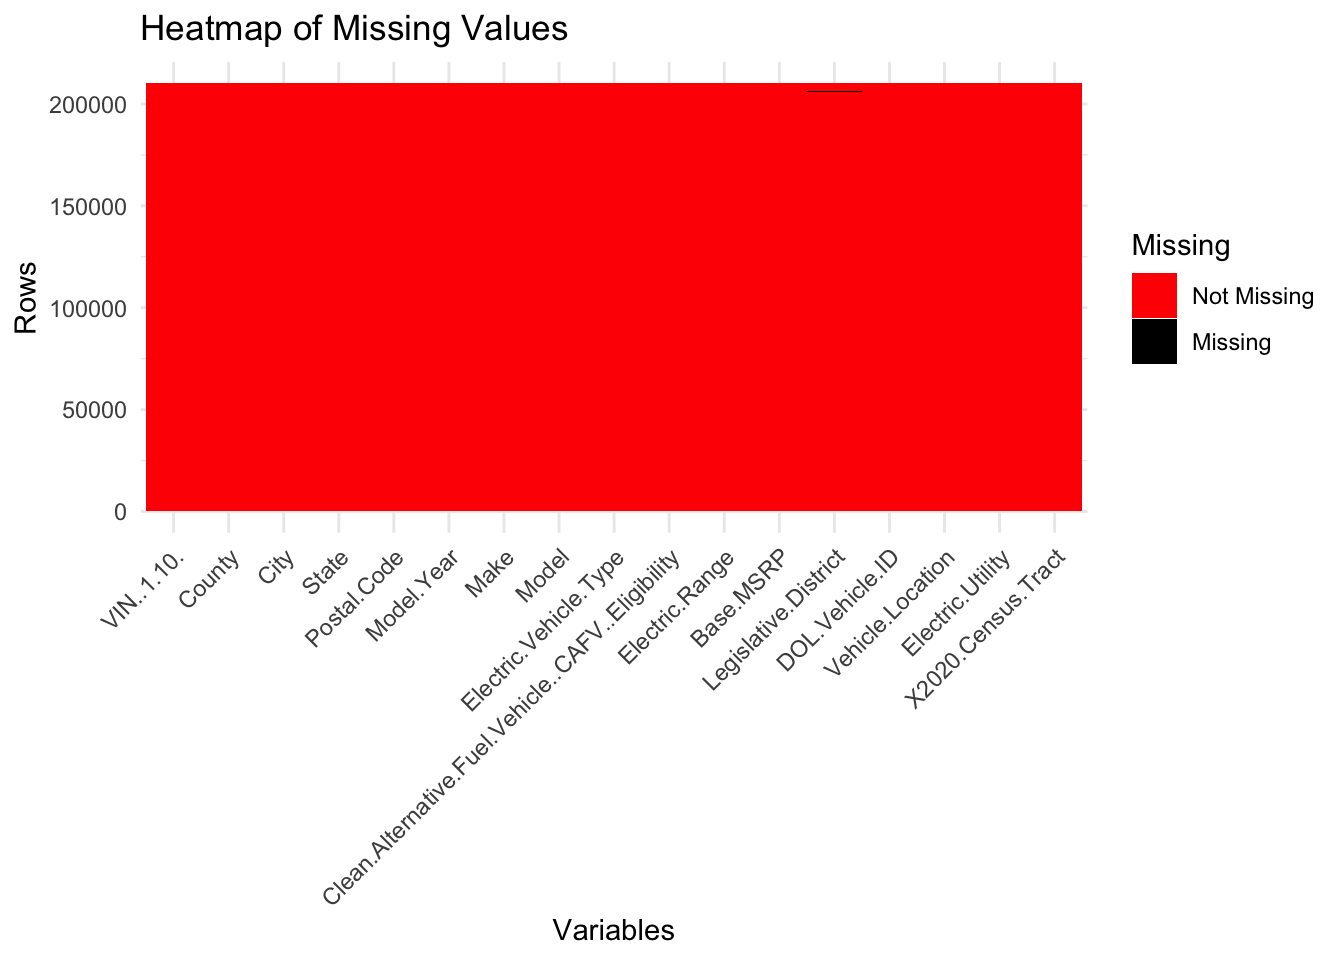
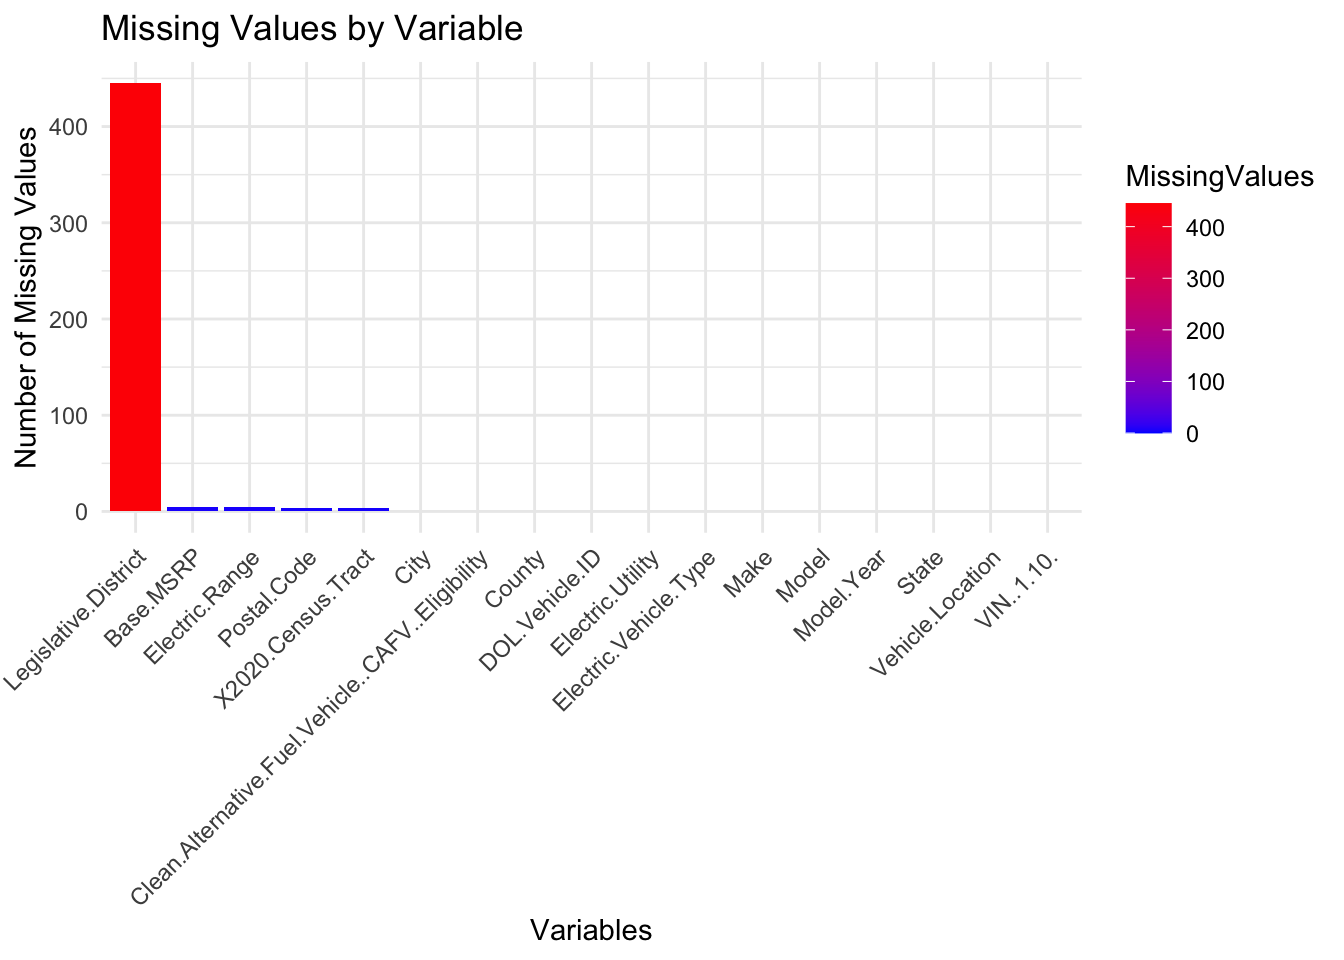
updated graphs

diff --git a/docs/data.html b/docs/data.html
@@ -227,9 +227,14 @@ Geography - County City of registration</p>
 <details class="code-fold">
 <summary>Code</summary>
 <div class="sourceCode cell-code" id="cb1"><pre class="sourceCode r code-with-copy"><code class="sourceCode r"><span id="cb1-1"><a href="#cb1-1" aria-hidden="true" tabindex="-1"></a><span class="co">#install.packages("dplyr") </span></span>
-<span id="cb1-2"><a href="#cb1-2" aria-hidden="true" tabindex="-1"></a><span class="co">#install.packages("tidyr")</span></span>
-<span id="cb1-3"><a href="#cb1-3" aria-hidden="true" tabindex="-1"></a><span class="fu">library</span>(ggplot2)</span>
-<span id="cb1-4"><a href="#cb1-4" aria-hidden="true" tabindex="-1"></a><span class="fu">library</span>(dplyr)</span></code><button title="Copy to Clipboard" class="code-copy-button"><i class="bi"></i></button></pre></div>
+<span id="cb1-2"><a href="#cb1-2" aria-hidden="true" tabindex="-1"></a><span class="co">#install.packages("tidyr")</span></span></code><button title="Copy to Clipboard" class="code-copy-button"><i class="bi"></i></button></pre></div>
+</details>
+</div>
+<div class="cell">
+<details class="code-fold">
+<summary>Code</summary>
+<div class="sourceCode cell-code" id="cb2"><pre class="sourceCode r code-with-copy"><code class="sourceCode r"><span id="cb2-1"><a href="#cb2-1" aria-hidden="true" tabindex="-1"></a><span class="fu">library</span>(ggplot2)</span>
+<span id="cb2-2"><a href="#cb2-2" aria-hidden="true" tabindex="-1"></a><span class="fu">library</span>(dplyr)</span></code><button title="Copy to Clipboard" class="code-copy-button"><i class="bi"></i></button></pre></div>
 </details>
 <div class="cell-output cell-output-stderr">
 <pre><code>
@@ -247,29 +252,29 @@ Attaching package: 'dplyr'</code></pre>
 </div>
 <details class="code-fold">
 <summary>Code</summary>
-<div class="sourceCode cell-code" id="cb5"><pre class="sourceCode r code-with-copy"><code class="sourceCode r"><span id="cb5-1"><a href="#cb5-1" aria-hidden="true" tabindex="-1"></a><span class="fu">library</span>(tidyr)</span>
-<span id="cb5-2"><a href="#cb5-2" aria-hidden="true" tabindex="-1"></a></span>
-<span id="cb5-3"><a href="#cb5-3" aria-hidden="true" tabindex="-1"></a>ev_data <span class="ot">&lt;-</span> <span class="fu">read.csv</span>(<span class="st">"Electric_Vehicle_Population_Data.csv"</span>)</span>
-<span id="cb5-4"><a href="#cb5-4" aria-hidden="true" tabindex="-1"></a></span>
-<span id="cb5-5"><a href="#cb5-5" aria-hidden="true" tabindex="-1"></a><span class="co"># Calculate the number of missing values for each column</span></span>
-<span id="cb5-6"><a href="#cb5-6" aria-hidden="true" tabindex="-1"></a>missing_data <span class="ot">&lt;-</span> ev_data <span class="sc">%&gt;%</span></span>
-<span id="cb5-7"><a href="#cb5-7" aria-hidden="true" tabindex="-1"></a>  <span class="fu">summarise</span>(<span class="fu">across</span>(<span class="fu">everything</span>(), <span class="sc">~</span> <span class="fu">sum</span>(<span class="fu">is.na</span>(.)))) <span class="sc">%&gt;%</span></span>
-<span id="cb5-8"><a href="#cb5-8" aria-hidden="true" tabindex="-1"></a>  <span class="fu">pivot_longer</span>(<span class="at">cols =</span> <span class="fu">everything</span>(), <span class="at">names_to =</span> <span class="st">"Variable"</span>, <span class="at">values_to =</span> <span class="st">"MissingValues"</span>)</span>
-<span id="cb5-9"><a href="#cb5-9" aria-hidden="true" tabindex="-1"></a></span>
-<span id="cb5-10"><a href="#cb5-10" aria-hidden="true" tabindex="-1"></a><span class="co"># Create a bar chart with colored bars</span></span>
-<span id="cb5-11"><a href="#cb5-11" aria-hidden="true" tabindex="-1"></a><span class="fu">ggplot</span>(missing_data, <span class="fu">aes</span>(<span class="at">x =</span> <span class="fu">reorder</span>(Variable, <span class="sc">-</span>MissingValues), <span class="at">y =</span> MissingValues, <span class="at">fill =</span> MissingValues)) <span class="sc">+</span></span>
-<span id="cb5-12"><a href="#cb5-12" aria-hidden="true" tabindex="-1"></a>  <span class="fu">geom_bar</span>(<span class="at">stat =</span> <span class="st">"identity"</span>) <span class="sc">+</span></span>
-<span id="cb5-13"><a href="#cb5-13" aria-hidden="true" tabindex="-1"></a>  <span class="fu">scale_fill_gradient</span>(<span class="at">low =</span> <span class="st">"blue"</span>, <span class="at">high =</span> <span class="st">"red"</span>) <span class="sc">+</span></span>
-<span id="cb5-14"><a href="#cb5-14" aria-hidden="true" tabindex="-1"></a>  <span class="fu">labs</span>(<span class="at">title =</span> <span class="st">"Missing Values by Variable"</span>,</span>
-<span id="cb5-15"><a href="#cb5-15" aria-hidden="true" tabindex="-1"></a>       <span class="at">x =</span> <span class="st">"Variables"</span>,</span>
-<span id="cb5-16"><a href="#cb5-16" aria-hidden="true" tabindex="-1"></a>       <span class="at">y =</span> <span class="st">"Number of Missing Values"</span>) <span class="sc">+</span></span>
-<span id="cb5-17"><a href="#cb5-17" aria-hidden="true" tabindex="-1"></a>  <span class="fu">theme_minimal</span>() <span class="sc">+</span></span>
-<span id="cb5-18"><a href="#cb5-18" aria-hidden="true" tabindex="-1"></a>  <span class="fu">theme</span>(<span class="at">axis.text.x =</span> <span class="fu">element_text</span>(<span class="at">angle =</span> <span class="dv">45</span>, <span class="at">hjust =</span> <span class="dv">1</span>))</span></code><button title="Copy to Clipboard" class="code-copy-button"><i class="bi"></i></button></pre></div>
+<div class="sourceCode cell-code" id="cb6"><pre class="sourceCode r code-with-copy"><code class="sourceCode r"><span id="cb6-1"><a href="#cb6-1" aria-hidden="true" tabindex="-1"></a><span class="fu">library</span>(tidyr)</span>
+<span id="cb6-2"><a href="#cb6-2" aria-hidden="true" tabindex="-1"></a></span>
+<span id="cb6-3"><a href="#cb6-3" aria-hidden="true" tabindex="-1"></a>ev_data <span class="ot">&lt;-</span> <span class="fu">read.csv</span>(<span class="st">"Electric_Vehicle_Population_Data.csv"</span>)</span>
+<span id="cb6-4"><a href="#cb6-4" aria-hidden="true" tabindex="-1"></a></span>
+<span id="cb6-5"><a href="#cb6-5" aria-hidden="true" tabindex="-1"></a><span class="co"># Calculate the number of missing values for each column</span></span>
+<span id="cb6-6"><a href="#cb6-6" aria-hidden="true" tabindex="-1"></a>missing_data <span class="ot">&lt;-</span> ev_data <span class="sc">%&gt;%</span></span>
+<span id="cb6-7"><a href="#cb6-7" aria-hidden="true" tabindex="-1"></a>  <span class="fu">summarise</span>(<span class="fu">across</span>(<span class="fu">everything</span>(), <span class="sc">~</span> <span class="fu">sum</span>(<span class="fu">is.na</span>(.)))) <span class="sc">%&gt;%</span></span>
+<span id="cb6-8"><a href="#cb6-8" aria-hidden="true" tabindex="-1"></a>  <span class="fu">pivot_longer</span>(<span class="at">cols =</span> <span class="fu">everything</span>(), <span class="at">names_to =</span> <span class="st">"Variable"</span>, <span class="at">values_to =</span> <span class="st">"MissingValues"</span>)</span>
+<span id="cb6-9"><a href="#cb6-9" aria-hidden="true" tabindex="-1"></a></span>
+<span id="cb6-10"><a href="#cb6-10" aria-hidden="true" tabindex="-1"></a><span class="co"># Create a bar chart with colored bars</span></span>
+<span id="cb6-11"><a href="#cb6-11" aria-hidden="true" tabindex="-1"></a><span class="fu">ggplot</span>(missing_data, <span class="fu">aes</span>(<span class="at">x =</span> <span class="fu">reorder</span>(Variable, <span class="sc">-</span>MissingValues), <span class="at">y =</span> MissingValues, <span class="at">fill =</span> MissingValues)) <span class="sc">+</span></span>
+<span id="cb6-12"><a href="#cb6-12" aria-hidden="true" tabindex="-1"></a>  <span class="fu">geom_bar</span>(<span class="at">stat =</span> <span class="st">"identity"</span>) <span class="sc">+</span></span>
+<span id="cb6-13"><a href="#cb6-13" aria-hidden="true" tabindex="-1"></a>  <span class="fu">scale_fill_gradient</span>(<span class="at">low =</span> <span class="st">"blue"</span>, <span class="at">high =</span> <span class="st">"red"</span>) <span class="sc">+</span></span>
+<span id="cb6-14"><a href="#cb6-14" aria-hidden="true" tabindex="-1"></a>  <span class="fu">labs</span>(<span class="at">title =</span> <span class="st">"Missing Values by Variable"</span>,</span>
+<span id="cb6-15"><a href="#cb6-15" aria-hidden="true" tabindex="-1"></a>       <span class="at">x =</span> <span class="st">"Variables"</span>,</span>
+<span id="cb6-16"><a href="#cb6-16" aria-hidden="true" tabindex="-1"></a>       <span class="at">y =</span> <span class="st">"Number of Missing Values"</span>) <span class="sc">+</span></span>
+<span id="cb6-17"><a href="#cb6-17" aria-hidden="true" tabindex="-1"></a>  <span class="fu">theme_minimal</span>() <span class="sc">+</span></span>
+<span id="cb6-18"><a href="#cb6-18" aria-hidden="true" tabindex="-1"></a>  <span class="fu">theme</span>(<span class="at">axis.text.x =</span> <span class="fu">element_text</span>(<span class="at">angle =</span> <span class="dv">45</span>, <span class="at">hjust =</span> <span class="dv">1</span>))</span></code><button title="Copy to Clipboard" class="code-copy-button"><i class="bi"></i></button></pre></div>
 </details>
 <div class="cell-output-display">
 <div>
 <figure class="figure">
-<p><img src="data_files/figure-html/unnamed-chunk-1-1.png" class="img-fluid figure-img" width="672"></p>
+<p><img src="data_files/figure-html/unnamed-chunk-2-1.png" class="img-fluid figure-img" width="672"></p>
 </figure>
 </div>
 </div>
@@ -278,7 +283,7 @@ Attaching package: 'dplyr'</code></pre>
 <div class="cell">
 <details class="code-fold">
 <summary>Code</summary>
-<div class="sourceCode cell-code" id="cb6"><pre class="sourceCode r code-with-copy"><code class="sourceCode r"><span id="cb6-1"><a href="#cb6-1" aria-hidden="true" tabindex="-1"></a><span class="fu">library</span>(reshape2)</span></code><button title="Copy to Clipboard" class="code-copy-button"><i class="bi"></i></button></pre></div>
+<div class="sourceCode cell-code" id="cb7"><pre class="sourceCode r code-with-copy"><code class="sourceCode r"><span id="cb7-1"><a href="#cb7-1" aria-hidden="true" tabindex="-1"></a><span class="fu">library</span>(reshape2)</span></code><button title="Copy to Clipboard" class="code-copy-button"><i class="bi"></i></button></pre></div>
 </details>
 <div class="cell-output cell-output-stderr">
 <pre><code>
@@ -291,28 +296,28 @@ Attaching package: 'reshape2'</code></pre>
 </div>
 <details class="code-fold">
 <summary>Code</summary>
-<div class="sourceCode cell-code" id="cb9"><pre class="sourceCode r code-with-copy"><code class="sourceCode r"><span id="cb9-1"><a href="#cb9-1" aria-hidden="true" tabindex="-1"></a><span class="co"># Create a binary missing value matrix (1 for missing, 0 for not missing)</span></span>
-<span id="cb9-2"><a href="#cb9-2" aria-hidden="true" tabindex="-1"></a>missing_matrix <span class="ot">&lt;-</span> <span class="fu">as.data.frame</span>(<span class="fu">is.na</span>(ev_data))</span>
-<span id="cb9-3"><a href="#cb9-3" aria-hidden="true" tabindex="-1"></a>missing_matrix <span class="ot">&lt;-</span> <span class="fu">cbind</span>(<span class="at">Row =</span> <span class="dv">1</span><span class="sc">:</span><span class="fu">nrow</span>(missing_matrix), missing_matrix)</span>
-<span id="cb9-4"><a href="#cb9-4" aria-hidden="true" tabindex="-1"></a></span>
-<span id="cb9-5"><a href="#cb9-5" aria-hidden="true" tabindex="-1"></a><span class="co"># Melt the data for ggplot</span></span>
-<span id="cb9-6"><a href="#cb9-6" aria-hidden="true" tabindex="-1"></a>missing_long <span class="ot">&lt;-</span> <span class="fu">melt</span>(missing_matrix, <span class="at">id.vars =</span> <span class="st">"Row"</span>)</span>
-<span id="cb9-7"><a href="#cb9-7" aria-hidden="true" tabindex="-1"></a></span>
-<span id="cb9-8"><a href="#cb9-8" aria-hidden="true" tabindex="-1"></a><span class="co"># Create the heatmap</span></span>
-<span id="cb9-9"><a href="#cb9-9" aria-hidden="true" tabindex="-1"></a><span class="fu">ggplot</span>(missing_long, <span class="fu">aes</span>(<span class="at">x =</span> variable, <span class="at">y =</span> Row, <span class="at">fill =</span> value)) <span class="sc">+</span></span>
-<span id="cb9-10"><a href="#cb9-10" aria-hidden="true" tabindex="-1"></a>  <span class="fu">geom_tile</span>() <span class="sc">+</span></span>
-<span id="cb9-11"><a href="#cb9-11" aria-hidden="true" tabindex="-1"></a>  <span class="fu">scale_fill_manual</span>(<span class="at">values =</span> <span class="fu">c</span>(<span class="st">"red"</span>, <span class="st">"black"</span>), <span class="at">labels =</span> <span class="fu">c</span>(<span class="st">"Not Missing"</span>, <span class="st">"Missing"</span>)) <span class="sc">+</span></span>
-<span id="cb9-12"><a href="#cb9-12" aria-hidden="true" tabindex="-1"></a>  <span class="fu">labs</span>(<span class="at">title =</span> <span class="st">"Heatmap of Missing Values"</span>,</span>
-<span id="cb9-13"><a href="#cb9-13" aria-hidden="true" tabindex="-1"></a>       <span class="at">x =</span> <span class="st">"Variables"</span>,</span>
-<span id="cb9-14"><a href="#cb9-14" aria-hidden="true" tabindex="-1"></a>       <span class="at">y =</span> <span class="st">"Rows"</span>,</span>
-<span id="cb9-15"><a href="#cb9-15" aria-hidden="true" tabindex="-1"></a>       <span class="at">fill =</span> <span class="st">"Missing"</span>) <span class="sc">+</span></span>
-<span id="cb9-16"><a href="#cb9-16" aria-hidden="true" tabindex="-1"></a>  <span class="fu">theme_minimal</span>() <span class="sc">+</span></span>
-<span id="cb9-17"><a href="#cb9-17" aria-hidden="true" tabindex="-1"></a>  <span class="fu">theme</span>(<span class="at">axis.text.x =</span> <span class="fu">element_text</span>(<span class="at">angle =</span> <span class="dv">45</span>, <span class="at">hjust =</span> <span class="dv">1</span>))</span></code><button title="Copy to Clipboard" class="code-copy-button"><i class="bi"></i></button></pre></div>
+<div class="sourceCode cell-code" id="cb10"><pre class="sourceCode r code-with-copy"><code class="sourceCode r"><span id="cb10-1"><a href="#cb10-1" aria-hidden="true" tabindex="-1"></a><span class="co"># Create a binary missing value matrix (1 for missing, 0 for not missing)</span></span>
+<span id="cb10-2"><a href="#cb10-2" aria-hidden="true" tabindex="-1"></a>missing_matrix <span class="ot">&lt;-</span> <span class="fu">as.data.frame</span>(<span class="fu">is.na</span>(ev_data))</span>
+<span id="cb10-3"><a href="#cb10-3" aria-hidden="true" tabindex="-1"></a>missing_matrix <span class="ot">&lt;-</span> <span class="fu">cbind</span>(<span class="at">Row =</span> <span class="dv">1</span><span class="sc">:</span><span class="fu">nrow</span>(missing_matrix), missing_matrix)</span>
+<span id="cb10-4"><a href="#cb10-4" aria-hidden="true" tabindex="-1"></a></span>
+<span id="cb10-5"><a href="#cb10-5" aria-hidden="true" tabindex="-1"></a><span class="co"># Melt the data for ggplot</span></span>
+<span id="cb10-6"><a href="#cb10-6" aria-hidden="true" tabindex="-1"></a>missing_long <span class="ot">&lt;-</span> <span class="fu">melt</span>(missing_matrix, <span class="at">id.vars =</span> <span class="st">"Row"</span>)</span>
+<span id="cb10-7"><a href="#cb10-7" aria-hidden="true" tabindex="-1"></a></span>
+<span id="cb10-8"><a href="#cb10-8" aria-hidden="true" tabindex="-1"></a><span class="co"># Create the heatmap</span></span>
+<span id="cb10-9"><a href="#cb10-9" aria-hidden="true" tabindex="-1"></a><span class="fu">ggplot</span>(missing_long, <span class="fu">aes</span>(<span class="at">x =</span> variable, <span class="at">y =</span> Row, <span class="at">fill =</span> value)) <span class="sc">+</span></span>
+<span id="cb10-10"><a href="#cb10-10" aria-hidden="true" tabindex="-1"></a>  <span class="fu">geom_tile</span>() <span class="sc">+</span></span>
+<span id="cb10-11"><a href="#cb10-11" aria-hidden="true" tabindex="-1"></a>  <span class="fu">scale_fill_manual</span>(<span class="at">values =</span> <span class="fu">c</span>(<span class="st">"pink"</span>, <span class="st">"black"</span>), <span class="at">labels =</span> <span class="fu">c</span>(<span class="st">"Not Missing"</span>, <span class="st">"Missing"</span>)) <span class="sc">+</span></span>
+<span id="cb10-12"><a href="#cb10-12" aria-hidden="true" tabindex="-1"></a>  <span class="fu">labs</span>(<span class="at">title =</span> <span class="st">"Heatmap of Missing Values"</span>,</span>
+<span id="cb10-13"><a href="#cb10-13" aria-hidden="true" tabindex="-1"></a>       <span class="at">x =</span> <span class="st">"Variables"</span>,</span>
+<span id="cb10-14"><a href="#cb10-14" aria-hidden="true" tabindex="-1"></a>       <span class="at">y =</span> <span class="st">"Rows"</span>,</span>
+<span id="cb10-15"><a href="#cb10-15" aria-hidden="true" tabindex="-1"></a>       <span class="at">fill =</span> <span class="st">"Missing"</span>) <span class="sc">+</span></span>
+<span id="cb10-16"><a href="#cb10-16" aria-hidden="true" tabindex="-1"></a>  <span class="fu">theme_minimal</span>() <span class="sc">+</span></span>
+<span id="cb10-17"><a href="#cb10-17" aria-hidden="true" tabindex="-1"></a>  <span class="fu">theme</span>(<span class="at">axis.text.x =</span> <span class="fu">element_text</span>(<span class="at">angle =</span> <span class="dv">45</span>, <span class="at">hjust =</span> <span class="dv">1</span>))</span></code><button title="Copy to Clipboard" class="code-copy-button"><i class="bi"></i></button></pre></div>
 </details>
 <div class="cell-output-display">
 <div>
 <figure class="figure">
-<p><img src="data_files/figure-html/unnamed-chunk-2-1.png" class="img-fluid figure-img" width="672"></p>
+<p><img src="data_files/figure-html/unnamed-chunk-3-1.png" class="img-fluid figure-img" width="672"></p>
 </figure>
 </div>
 </div>
